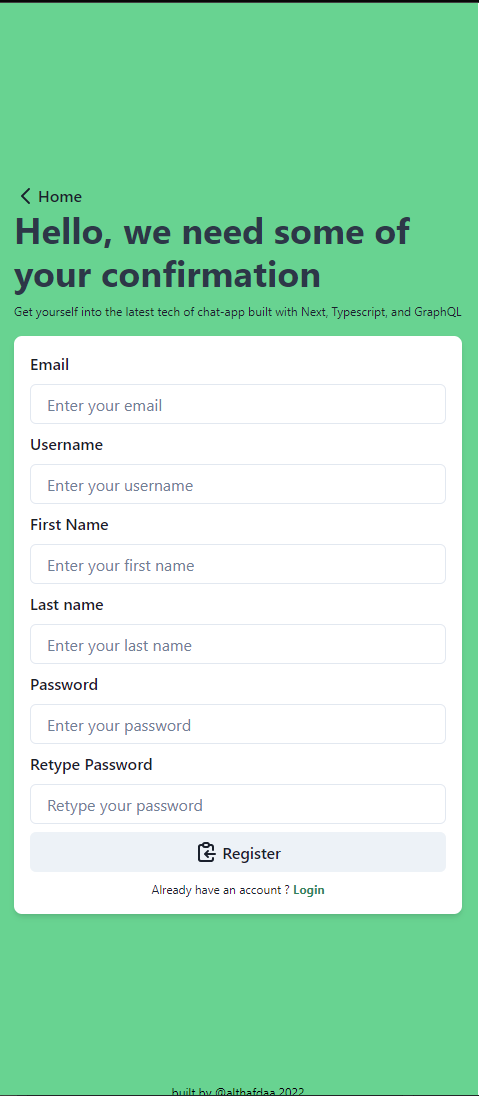
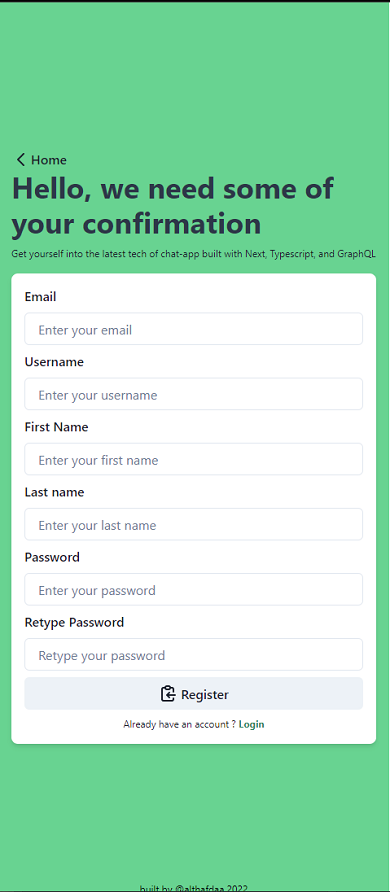
docs: resize image

diff --git a/README.md b/README.md
@@ -34,7 +34,7 @@ npx install create-t3-app
 
 ## Screenshot & Preview
 
-https://user-images.githubusercontent.com/92288572/189355163-90afa054-39f1-4353-a5e8-576ca5b44098.mp4
+[Video Preview Click Here](https://user-images.githubusercontent.com/92288572/189355163-90afa054-39f1-4353-a5e8-576ca5b44098.mp4)
 ![](./docs/1.png)
 ![](./docs/2.png)
 ![](./docs/3.png)
